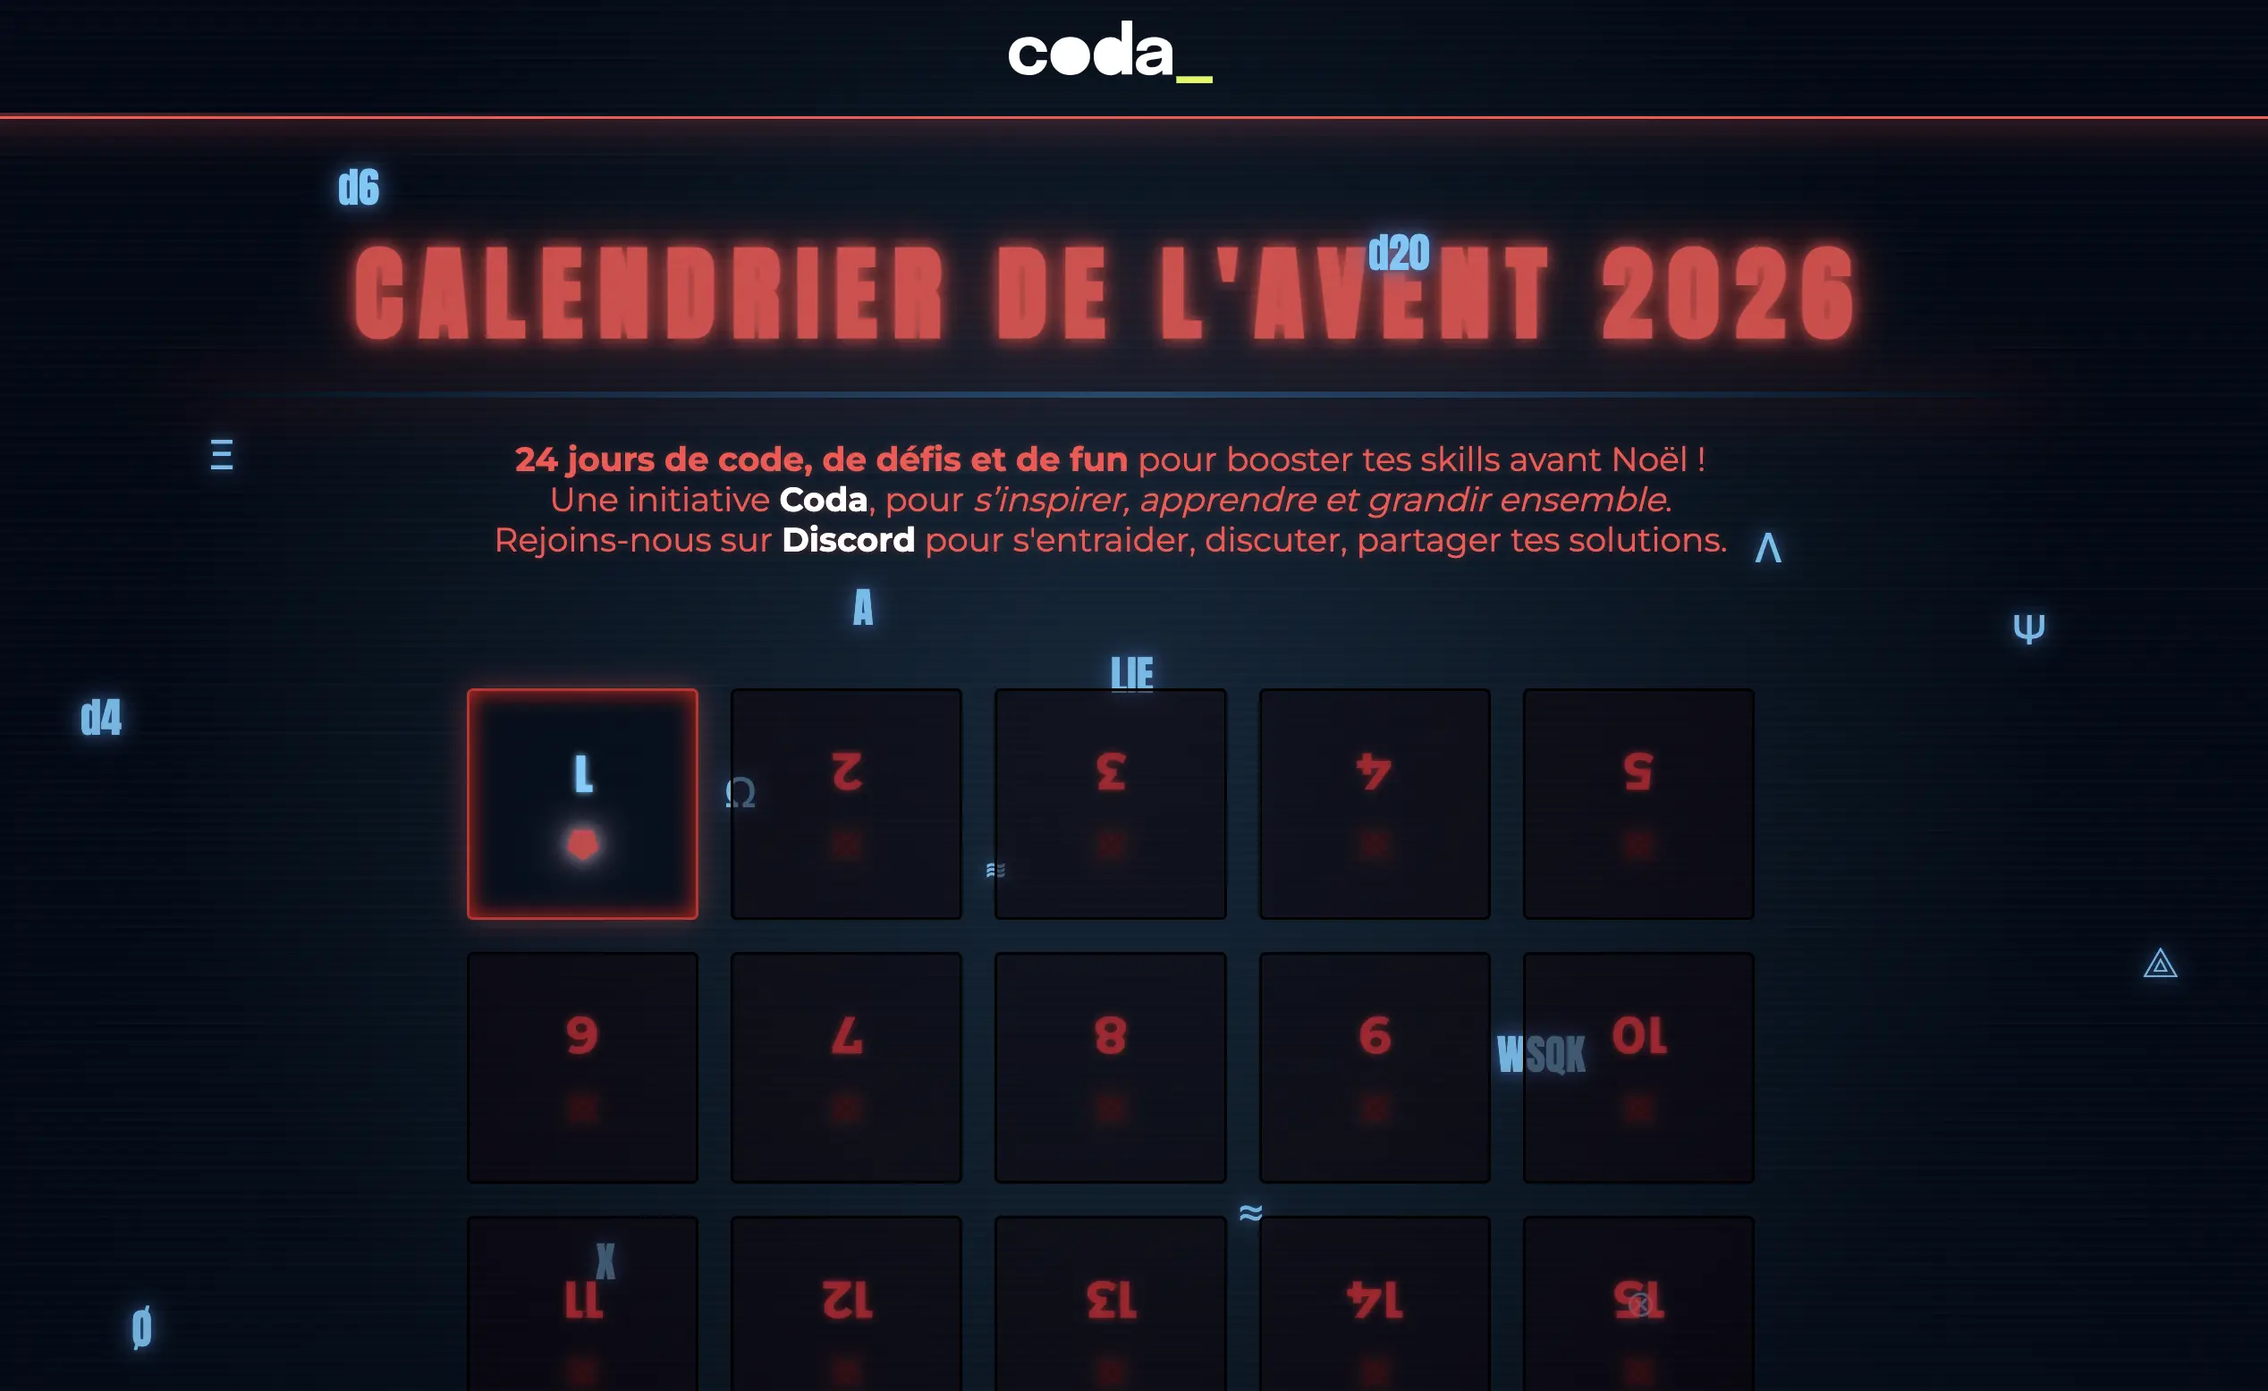
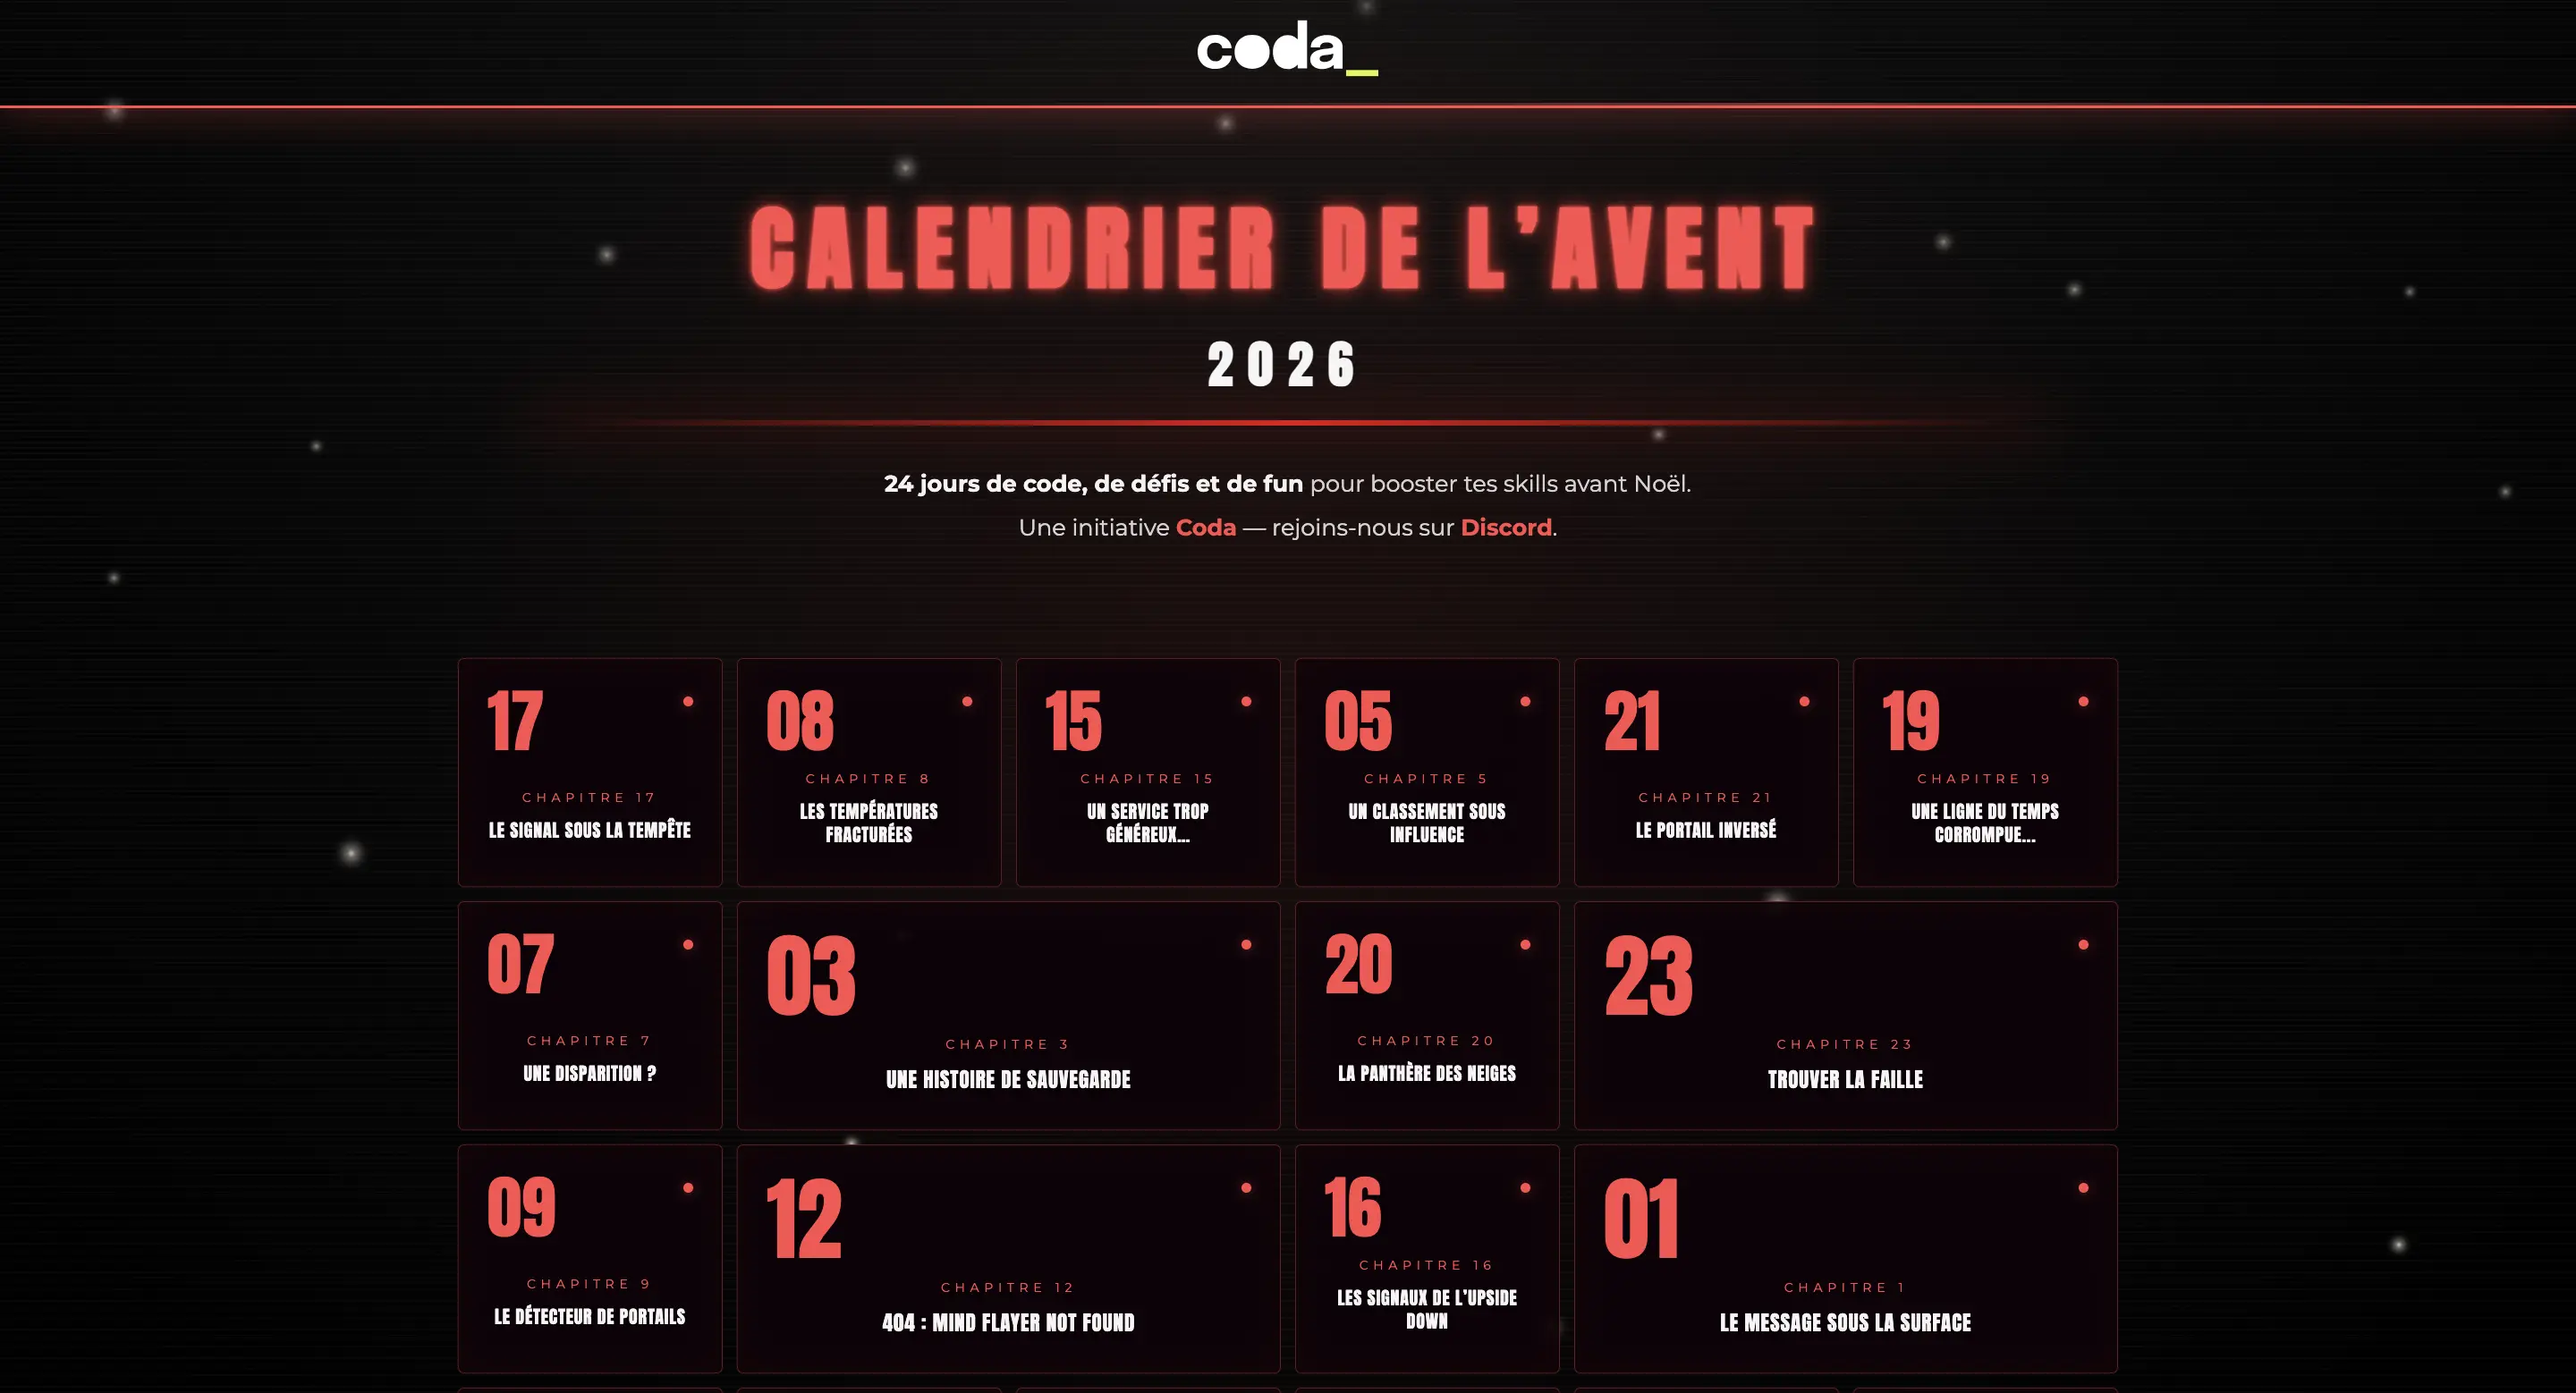
feat: update 2026

diff --git a/README.md b/README.md
@@ -13,4 +13,4 @@ Une initiative [Coda](https://www.coda.school/), pour *s’inspirer, apprendre e
 
 Thématiques : Développement · Cyber · Réseaux · Data · IA
 
-[![Calendrier de l'Avent Coda - 2025](img/calendar.webp)](https://coda-school.github.io/advent-2025/)
+[![Calendrier de l'Avent Coda - 2025](img/calendar.webp)](https://coda-dijon.github.io/advent-2026/)
